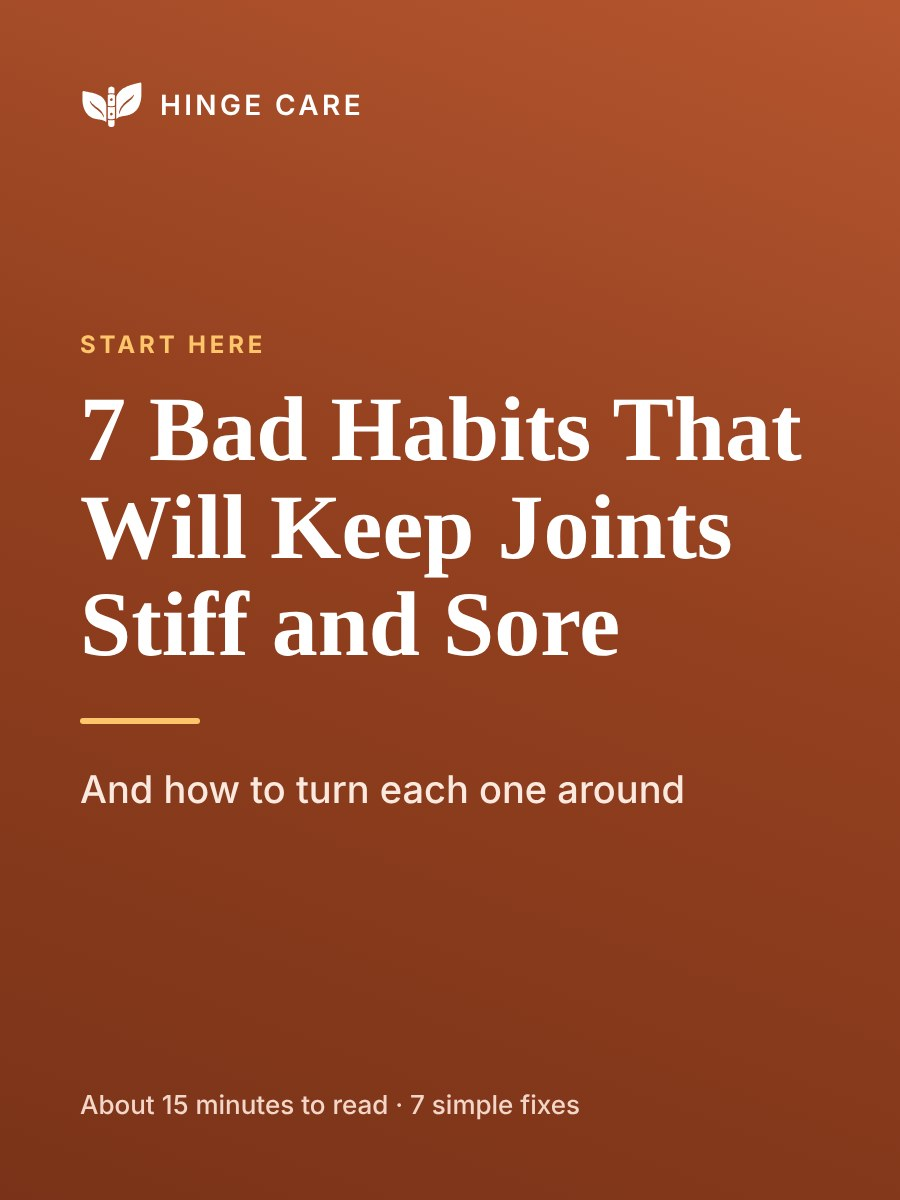
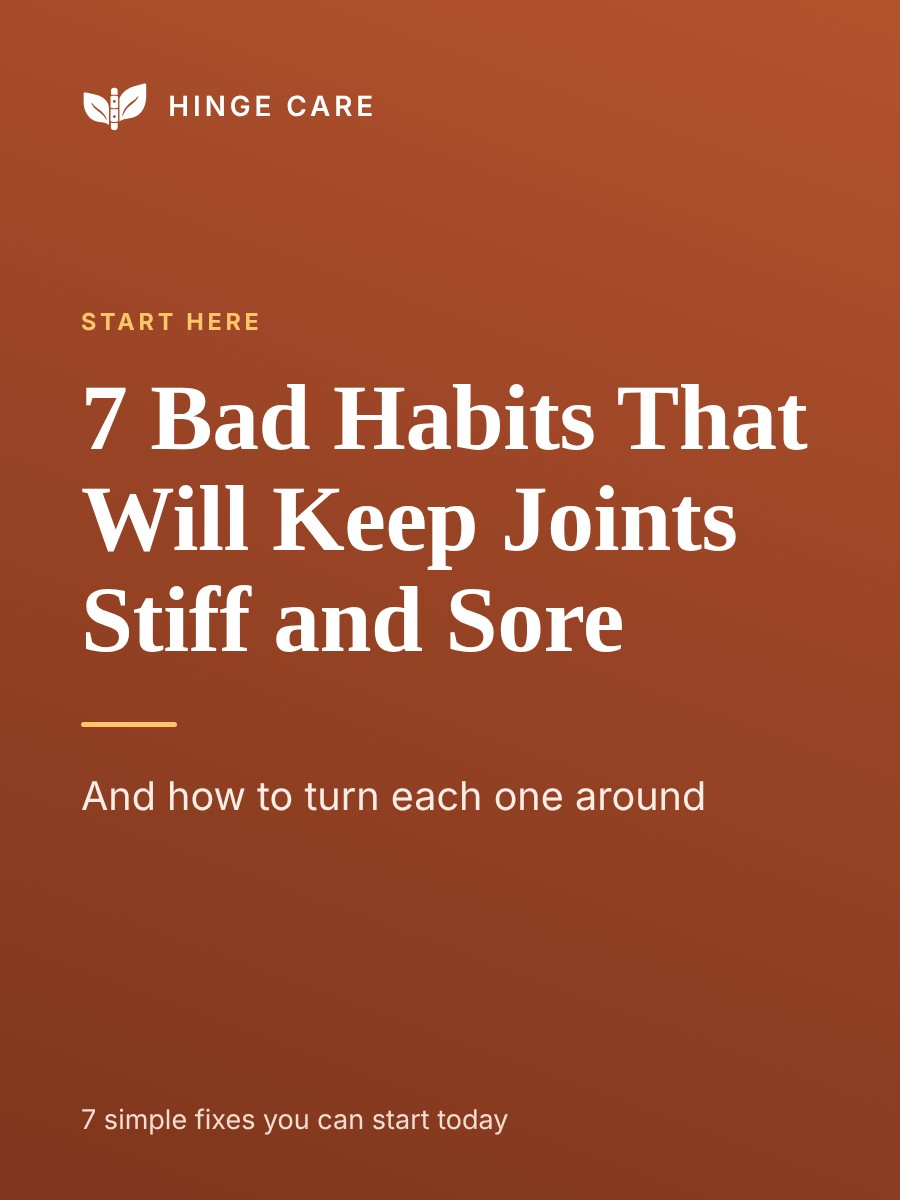
Remove 'about fifteen minutes to read' everywhere; guide cover now says '7 simple fixes you can start today'
Claude-Session: https://claude.ai/code/session_016AkRdsJikUb1CWbo4NGJjS

diff --git a/test/index.html b/test/index.html
@@ -36,7 +36,7 @@
 <h2>Start free. Go further only if it helps.</h2>
 <p class="sub">Hinge Care lists every price on this page, and nothing is added at checkout.</p>
 <div class="cards">
-<div class="card"><img src="../images/cover-habits-rust.jpg" alt="Cover of the free guide, 7 Bad Habits That Will Keep Joints Stiff and Sore" loading="lazy" width="900" height="1200"><p class="eye">Free · start here</p><h3>7 Bad Habits</h3><p>Seven everyday habits that keep joints stiff, and a simple fix for each. About fifteen minutes to read.</p><p class="price">Free</p><a class="b b1" href="guide.html">Get it free</a></div>
+<div class="card"><img src="../images/cover-habits-rust.jpg?v=2" alt="Cover of the free guide, 7 Bad Habits That Will Keep Joints Stiff and Sore" loading="lazy" width="900" height="1200"><p class="eye">Free · start here</p><h3>7 Bad Habits</h3><p>Seven everyday habits that keep joints stiff, and a simple fix for each. Most of the fixes cost nothing.</p><p class="price">Free</p><a class="b b1" href="guide.html">Get it free</a></div>
 <div class="card"><img src="../images/cover-joint-reset-green.png" alt="Cover of The Joint Reset book" loading="lazy" width="900" height="1200"><p class="eye">The book</p><h3>The Joint Reset</h3><p>124 large-print pages. 27 home remedies checked against the research, with a plain verdict on each.</p><p class="price">$17 <small>one payment</small></p><a class="b b2" href="book.html">See the book</a></div>
 <div class="card"><img src="https://images.pexels.com/photos/7530853/pexels-photo-7530853.jpeg?auto=compress&cs=tinysrgb&w=800" alt="An older woman sitting on the edge of her bed in the morning, stretching gently" loading="lazy" width="1168" height="880"><p class="eye">The Program</p><h3>The Hinge Care Program</h3><p>Eight weeks, one small step a day, with 24 short videos and the Gentle Stretch app for guided chair routines. Go at your own pace.</p><p class="price">$97 <small>paid once</small></p><a class="b b2" href="course-info.html">See the Program</a></div>
 </div>

diff --git a/index.html b/index.html
@@ -34,7 +34,7 @@
 <h2>Start free. Go further only if it helps.</h2>
 <p class="sub">Hinge Care lists every price on this page, and nothing is added at checkout.</p>
 <div class="cards">
-<div class="card"><img src="images/cover-habits-rust.jpg" alt="Cover of the free guide, 7 Bad Habits That Will Keep Joints Stiff and Sore" loading="lazy" width="900" height="1200"><p class="eye">Free · start here</p><h3>7 Bad Habits</h3><p>Seven everyday habits that keep joints stiff, and a simple fix for each. About fifteen minutes to read.</p><p class="price">Free</p><a class="b b1" href="guide.html">Get it free</a></div>
+<div class="card"><img src="images/cover-habits-rust.jpg?v=2" alt="Cover of the free guide, 7 Bad Habits That Will Keep Joints Stiff and Sore" loading="lazy" width="900" height="1200"><p class="eye">Free · start here</p><h3>7 Bad Habits</h3><p>Seven everyday habits that keep joints stiff, and a simple fix for each. Most of the fixes cost nothing.</p><p class="price">Free</p><a class="b b1" href="guide.html">Get it free</a></div>
 <div class="card"><img src="images/cover-joint-reset-green.png" alt="Cover of The Joint Reset book" loading="lazy" width="900" height="1200"><p class="eye">The book</p><h3>The Joint Reset</h3><p>124 large-print pages. 27 home remedies checked against the research, with a plain verdict on each.</p><p class="price">$17 <small>one payment</small></p><a class="b b2" href="book.html">See the book</a></div>
 <div class="card"><img src="https://images.pexels.com/photos/7530853/pexels-photo-7530853.jpeg?auto=compress&cs=tinysrgb&w=800" alt="An older woman sitting on the edge of her bed in the morning, stretching gently" loading="lazy" width="1168" height="880"><p class="eye">The Program</p><h3>The Hinge Care Program</h3><p>Eight weeks, one small step a day, with 24 short videos and the Gentle Stretch app for guided chair routines. Go at your own pace.</p><p class="price">$97 <small>paid once</small></p><a class="b b2" href="course-info.html">See the Program</a></div>
 </div>

diff --git a/test/guide.html b/test/guide.html
@@ -23,7 +23,7 @@
 <main id="main">
 <section class="hero"><div class="w">
 <div><p class="eye">Free · start here</p><h1>The small habits that make stiff mornings worse, and what to do instead.</h1>
-<p class="lede">Seven of them, in plain words. It takes about fifteen minutes to read, and most of the fixes cost nothing.</p>
+<p class="lede">Seven of them, in plain words, each with a simple fix you can start today. Most of the fixes cost nothing.</p>
 <form class="formbox" id="free-form" method="POST" action="https://formsubmit.co/cgmandrez@gmail.com" autocomplete="on" novalidate>
 <h2>Where should we send it?</h2>
 <input type="hidden" name="_next" value="https://gentlerootz.com/test/thank-you.html">
@@ -37,7 +37,7 @@
 <button type="submit" class="b b1">Send me the guide</button>
 <p class="fine">Hinge Care uses your details only to send the guide and our tips. We never sell them. <a href="privacy.html">Privacy policy</a></p>
 </form></div>
-<img class="cover" src="../images/cover-habits-rust.jpg" alt="Cover of the free guide, 7 Bad Habits That Will Keep Joints Stiff and Sore" width="900" height="1200" fetchpriority="high">
+<img class="cover" src="../images/cover-habits-rust.jpg?v=2" alt="Cover of the free guide, 7 Bad Habits That Will Keep Joints Stiff and Sore" width="900" height="1200" fetchpriority="high">
 </div></section>
 <section class="s alt"><div class="w split">
 <div><h2>Most advice skips the everyday stuff.</h2><p>When joints start to ache, people hand you pills, creams and opinions. Hardly anyone mentions the little habits that keep the stiffness going, like how you sit, sleep or start the day.</p><p>This guide names seven of them, with a small fix for each, so you can start with the one that counts most.</p></div>

diff --git a/guide.html b/guide.html
@@ -21,7 +21,7 @@
 <main id="main">
 <section class="hero"><div class="w">
 <div><p class="eye">Free · start here</p><h1>The small habits that make stiff mornings worse, and what to do instead.</h1>
-<p class="lede">Seven of them, in plain words. It takes about fifteen minutes to read, and most of the fixes cost nothing.</p>
+<p class="lede">Seven of them, in plain words, each with a simple fix you can start today. Most of the fixes cost nothing.</p>
 <form class="formbox" id="free-form" method="POST" action="https://formsubmit.co/cgmandrez@gmail.com" autocomplete="on" novalidate>
 <h2>Where should we send it?</h2>
 <input type="hidden" name="_next" value="https://gentlerootz.com/thank-you.html">
@@ -35,7 +35,7 @@
 <button type="submit" class="b b1">Send me the guide</button>
 <p class="fine">Hinge Care uses your details only to send the guide and our tips. We never sell them. <a href="privacy.html">Privacy policy</a></p>
 </form></div>
-<img class="cover" src="images/cover-habits-rust.jpg" alt="Cover of the free guide, 7 Bad Habits That Will Keep Joints Stiff and Sore" width="900" height="1200" fetchpriority="high">
+<img class="cover" src="images/cover-habits-rust.jpg?v=2" alt="Cover of the free guide, 7 Bad Habits That Will Keep Joints Stiff and Sore" width="900" height="1200" fetchpriority="high">
 </div></section>
 <section class="s alt"><div class="w split">
 <div><h2>Most advice skips the everyday stuff.</h2><p>When joints start to ache, people hand you pills, creams and opinions. Hardly anyone mentions the little habits that keep the stiffness going, like how you sit, sleep or start the day.</p><p>This guide names seven of them, with a small fix for each, so you can start with the one that counts most.</p></div>

diff --git a/b/index.html b/b/index.html
@@ -350,7 +350,7 @@ body .btn:not(.hdr-btn){font-size:20px!important;padding-top:19px!important;padd
 <h2 style="margin: 10px 0 0; font-family: 'Lora', Georgia, 'Times New Roman', serif; font-weight: 700; font-size: clamp(30px, 3.6vw, 44px); line-height: 1.1; letter-spacing: -0.015em; color: #FFFFFF">7 Bad Habits</h2>
 <p style="margin: 22px 0 0; font-family: 'Lora', Georgia, serif; font-size: 24px!important; line-height: 1.45!important; color: #FFFFFF">Start here. It's short, and it's free.</p>
 <p style="margin: 18px 0 0; color: #E4E8DC">This guide names seven habits that can keep joints stiff and sore for good, and what to do about each one. Some of it is hard to hear, and every habit comes with a fix.</p>
-<p style="margin: 18px 0 0; color: #E4E8DC">If you've wondered where on earth to begin, begin here. It takes about fifteen minutes to read.</p>
+<p style="margin: 18px 0 0; color: #E4E8DC">If you've wondered where on earth to begin, begin here. Seven simple fixes, and most of them cost nothing.</p>
 <p style="margin: 26px 0 0; font-weight: 600; color: #FFFFFF">If you'd like to read it tonight…</p>
 <a class="btn" id="guide-buy" href="guide.html" style="display: inline-block; margin-top: 18px; background: #FFC56B; color: #1F3A27; text-decoration: none; padding: 17px 34px; border-radius: 14px; font-weight: 700; font-size: 19px">Get it free</a>
 </div>

diff --git a/shop/thanks.html b/shop/thanks.html
@@ -18,7 +18,7 @@ textarea{min-height:96px}.pay{background:#F2E9DB;border-radius:14px;padding:16px
 <main class="pg">
 <h1>You're on the list. Thank you.</h1>
 <p>We'll email you the day it opens. Keep an eye out for a note from Hinge Care, and check your promotions folder if you don't see it.</p>
-<div class="box"><h2>While you wait</h2><p>The free 7 Bad Habits guide takes about fifteen minutes to read, and most of the fixes cost nothing.</p><a class="hc-btn" href="../guide.html">Get the free guide</a></div>
+<div class="box"><h2>While you wait</h2><p>The free 7 Bad Habits guide has seven simple fixes, and most of them cost nothing.</p><a class="hc-btn" href="../guide.html">Get the free guide</a></div>
 <p><a href="../index.html">Back to the home page</a></p>
 </main>
 <footer class="hc-foot"><div class="hc-wrap"><p>For general wellness, not medical advice. Check with your doctor before starting new exercises.</p><p><a href="../index.html">Visit our website: gentlerootz.com</a> · <a href="partners.html">Partners</a> · <a href="../privacy.html">Privacy</a></p></div></footer>

diff --git a/b/guide.html b/b/guide.html
@@ -52,14 +52,14 @@ footer a,.foot a{display:inline-block;padding-block:10px}
 <span class="eyebrow">Why we wrote it</span>
 <p class="big">When your joints hurt, nobody tells you which everyday habits are making it worse.</p>
 <p>So most of us keep doing them without knowing. We wrote this guide to name seven of them plainly and give you the fix for each one, so you can start with the change that counts most.</p>
-<p>It takes about fifteen minutes to read. There's nothing to buy.</p>
+<p>There are seven simple fixes, and there's nothing to buy.</p>
 </div>
 <div class="gpic" role="img" aria-label="A cup of golden herbal tea with fresh ginger on a wooden table in warm morning light" style="background-image:url(../images/p-163402.jpg),url(../images/bowl.jpg)"></div>
 </section>
 <section class="gsplit rev">
 <div class="gtext letter-copy">
 <span class="eyebrow">Life after the guide</span>
-<h2>Fifteen minutes from now</h2>
+<h2>By the last page</h2>
 <ul class="ticks">
 <li>You know which habits to watch for.</li>
 <li>You know where to begin, without a long list.</li>
